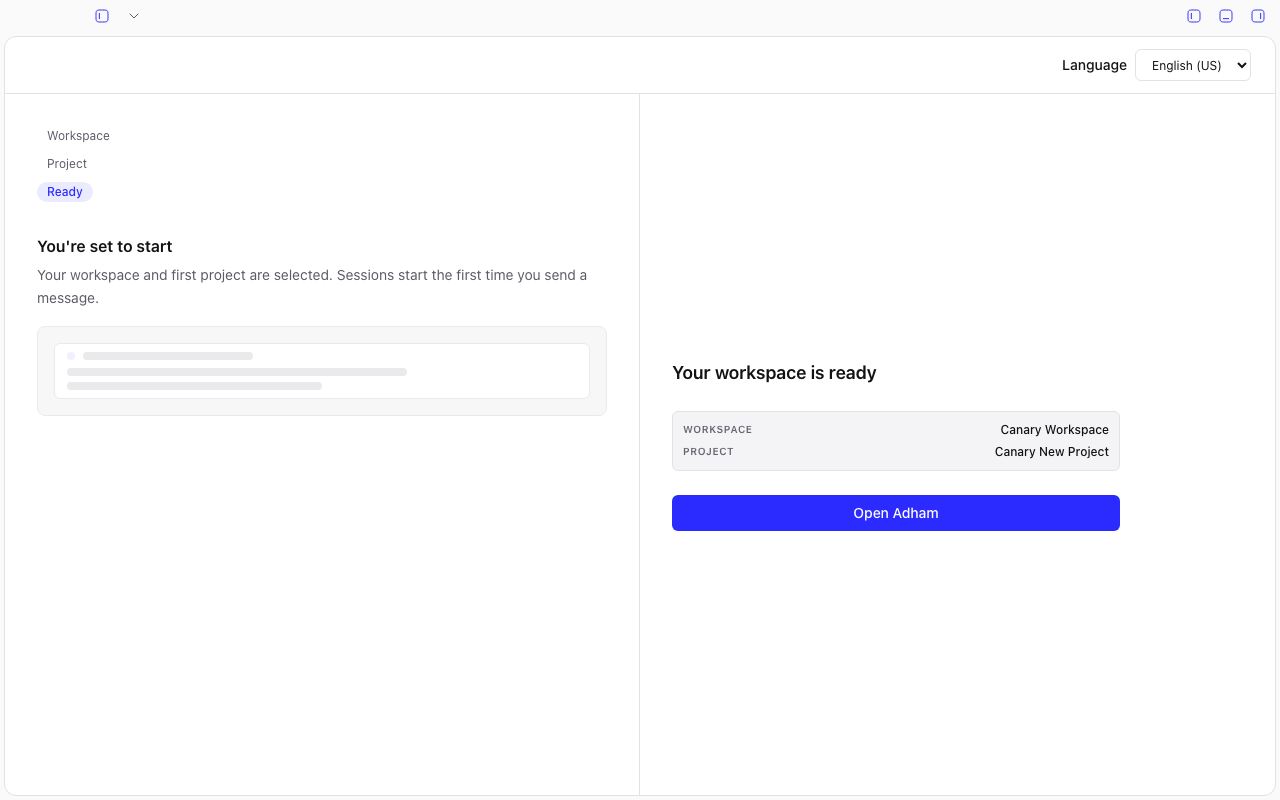
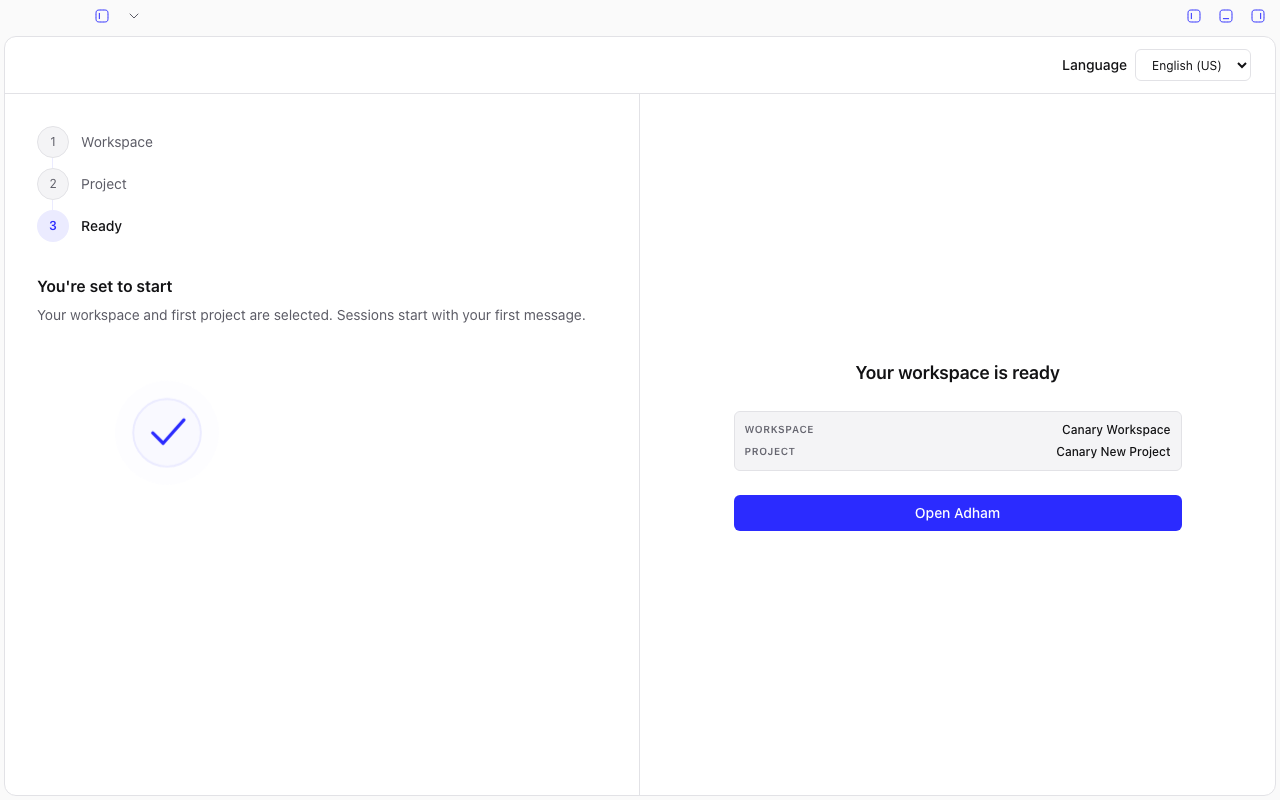
docs(onboarding): round-5 evidence — stepper/SVG captures + report update
- All ten captures regenerated against the round-5 layout (numbered
  stepper, animated SVG showcase, centered form block, 50/50 Back row);
  all automated assertions still pass (no mount dispatch, language
  persistence, retry recovery, no overflow at 700px, RTL mirroring).
- Report: round-5 section, updated capture table, copy notes (hint
  removal + de-duplication), stepper naming in flow coverage.

diff --git a/docs/reports/onboarding-01-verification.md b/docs/reports/onboarding-01-verification.md
@@ -11,7 +11,8 @@ throughout; no user content, secrets, or raw app-data paths.
 - `9387911` / `22a5e28` — evidence reports + screenshots.
 - Reviewer round 2 — desktop side-rail layout, journey-header language selector, fail-closed storage readiness, architecture analysis.
 - Reviewer round 3 — `c892697` behavior-preserving dependency repair (provisioning leaf feature, ownership delimitation, shared helpers, barrel-workaround removal); follow-up evidence commit adds the readiness-recheck regression and the native compile/launch record below.
-- Reviewer round 4 — `e034e62` (this revision) — full-context two-column journey page: the route renders the journey inside the shell's `Context` card (app default layout) and the journey splits into a guide column (step rail + per-step showcase + decorative preview) and a form column; showcase copy added in all four locales; guide-column test added.
+- Reviewer round 4 — `e034e62` — full-context two-column journey page: the route renders the journey inside the shell's `Context` card (app default layout) and the journey splits into a guide column (step rail + per-step showcase + decorative preview) and a form column; showcase copy added in all four locales; guide-column test added.
+- Reviewer round 5 — `4382034` (this revision) — guide column upgraded to a vertical numbered progress stepper (circles + connecting lines) with animated per-step SVG showcase art; form block centered in its column with centered titles and start-aligned fields; project-step Back renders 50/50 beside the primary action; copy de-duplicated (form hint paragraphs removed, guide bodies reworded).
 
 ## Gate results (macOS arm64, this machine)
 
@@ -182,6 +183,31 @@ Implemented in `e034e62`:
 Model, copy of record, storage guards, and frozen-identity semantics are
 untouched; this is a presentation-layer revision.
 
+## Reviewer round 5 — stepper, SVG showcase, centered form (this revision)
+
+Native review of the round-4 layout produced four design corrections,
+implemented in `4382034` (presentation only; model and guards untouched):
+
+1. **Numbered progress stepper** — the text-pill rail is replaced by a
+   vertical stepper (`ui/guide-column.tsx`): a numbered circle per step
+   with connecting lines, filled up to the current step, current step
+   highlighted. Keeps the `Setup steps` list landmark, `aria-current="step"`,
+   and the per-step sr-only statuses; RTL mirrors via logical positioning.
+2. **Animated SVG showcase** — the skeleton-bar mock is replaced by pure
+   per-step SVG art (no text → no translation needed, `aria-hidden`):
+   an orbiting dot around the workspace card (16 s spin), a pulsing
+   isolation divider between the two project cards, and a pulsing halo
+   behind the ready checkmark. Built-in Tailwind animations only, all
+   disabled under `prefers-reduced-motion`.
+3. **Centered form column** — the form block now centers horizontally in
+   its column; step titles are centered while field labels, inputs, and
+   buttons stay start-aligned.
+4. **Button row + copy de-duplication** — project-step Back renders beside
+   the primary action in a 50/50 row (no more lone trailing button); the
+   form hint paragraphs (`workspaceHint`, `projectHint`) were removed and
+   the guide bodies reworded so "workspace" no longer repeats across the
+   two columns (the workspace screen went from seven mentions to four).
+
 
 Method: vite dev server (port 11111) driven by Playwright/Chromium with
 `window.__TAURI_INTERNALS__.invoke` shimmed to a synthetic canary backend
@@ -192,15 +218,15 @@ follows the amendment's textual spec. Captures in `docs/reports/evidence/`:
 | State | File | Result |
 |-------|------|--------|
 | Loading / checking | `onboarding-01-loading.png` | "Checking your setup…" inside the app Context card |
-| Workspace step (existing + create, full-context page) | `onboarding-01-workspace-step.png` | Two full columns: guide (rail + "One workspace for everything" showcase + preview) \| form; header language selector |
+| Workspace step (existing + create, full-context page) | `onboarding-01-workspace-step.png` | Numbered stepper (1 current) + orbit-animating SVG showcase \| centered form block: centered title, start-aligned fields; header language selector |
 | Focus / keyboard | `onboarding-01-focus-keyboard.png` | Tab reaches existing-workspace entry; Enter selects; Enter in name field submits |
-| Project step | `onboarding-01-project-step.png` | Guide showcase swaps to "Projects keep their own storage" (two-card isolation preview); target-workspace card, existing project list, create form |
-| Ready step | `onboarding-01-ready-step.png` | Guide showcase "You're set to start"; confirmed scope summary, "Open Adham" |
+| Project step | `onboarding-01-project-step.png` | Stepper advances (1 done, 2 current); pulsing isolation-divider SVG; Back \| Create project side-by-side 50/50 |
+| Ready step | `onboarding-01-ready-step.png` | Stepper at 3; pulsing check SVG; centered title, scope summary, "Open Adham" |
 | Error + retry | `onboarding-01-error-retry.png` | `role=alert` + Retry; retry recovers |
 | Storage degraded | `onboarding-01-storage-degraded.png` | Blocker message + Retry in the form column; guide column stays visible |
 | Storage unavailable (failed read) | `onboarding-01-storage-unavailable.png` | Unavailable blocker, no mutation controls; Retry recovers |
-| Arabic RTL | `onboarding-01-arabic-rtl.png` | Full RTL mirroring: guide column right, form left, Arabic showcase copy |
-| Narrow 700 px (columns stacked) | `onboarding-01-narrow-700px.png` | Columns stack (guide above form); no horizontal overflow |
+| Arabic RTL | `onboarding-01-arabic-rtl.png` | Full RTL mirroring: stepper + showcase right, form left, Arabic copy |
+| Narrow 700 px (columns stacked) | `onboarding-01-narrow-700px.png` | Columns stack (stepper + showcase above form); no horizontal overflow |
 
 Automated assertions in the same run: no create/select dispatch on mount;
 language switch to Arabic on the first screen dispatches nothing and survives
@@ -228,8 +254,8 @@ messages.
 | Language switch before creation dispatches the new locale | `OnboardingJourney` test |
 | Frozen request identity survives a language switch mid-uncertain-retry | `OnboardingJourney` test |
 | Retry → checking: all three mutation methods dispatch nothing while readiness re-read is pending (`blocker === null` ≠ safe to proceed); reopen only after explicit ready | `useOnboarding` regression test (round 3) |
-| Step rail marks and advances the current step | `OnboardingJourney` test |
-| Guide column (showcase copy, rail, form) renders together | `OnboardingJourney` test (round 4) |
+| Step stepper marks and advances the current step | `OnboardingJourney` test |
+| Guide column (showcase copy, stepper, form) renders together | `OnboardingJourney` test (round 4) |
 
 ## Real-backend native verification — macOS compile + launch attempted, PASSED
 
@@ -264,11 +290,13 @@ substitute for this.
 
 ## Copy and interaction review
 
-- Copy limited to the amendment plus the round-4 guide copy; new
-  `storageUnavailable` message added for the fail-closed blocker; all four
-  locales covered by the parity test. The six guide keys
-  (`guideWorkspace/guideProject/guideReady` title+body) are complementary
-  to the form copy, and the decorative preview carries no text at all.
+- Copy limited to the amendment plus the round-4 guide copy (reworded in
+  round 5 to remove the repeated "workspace" across columns); the round-5
+  pass also removed the form hint paragraphs (`workspaceHint`,
+  `projectHint`) from all locales, leaving the showcase as the single
+  explanatory text. New `storageUnavailable` message added for the
+  fail-closed blocker; all four locales covered by the parity test. The
+  SVG showcase art carries no text at all.
 - Optional settings stay outside onboarding: the only in-journey setting is
   the compact language selector (now in the journey header, per review);
   theme and everything else remain in Settings.
